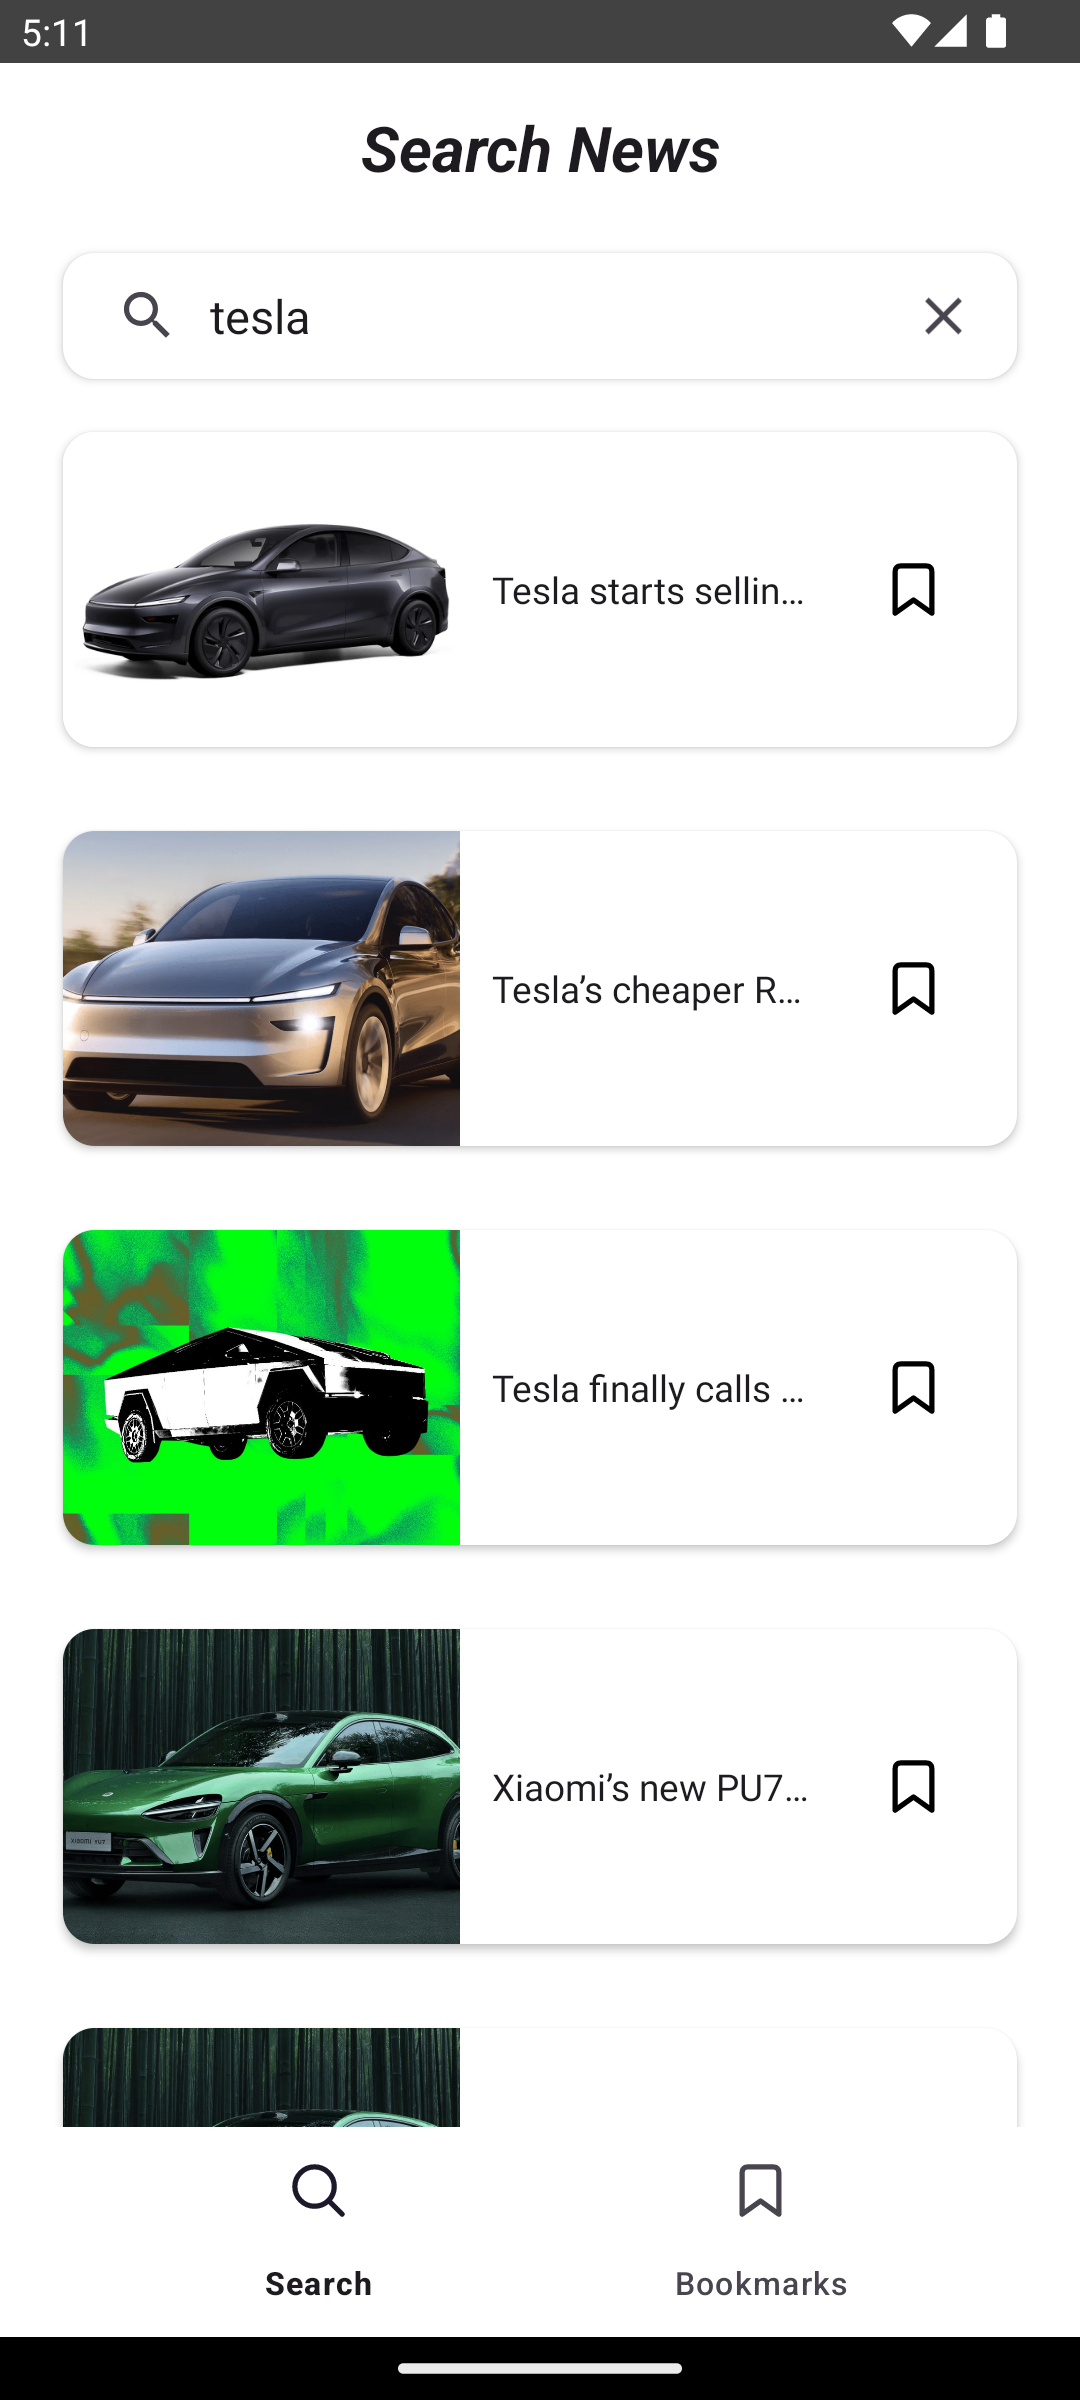
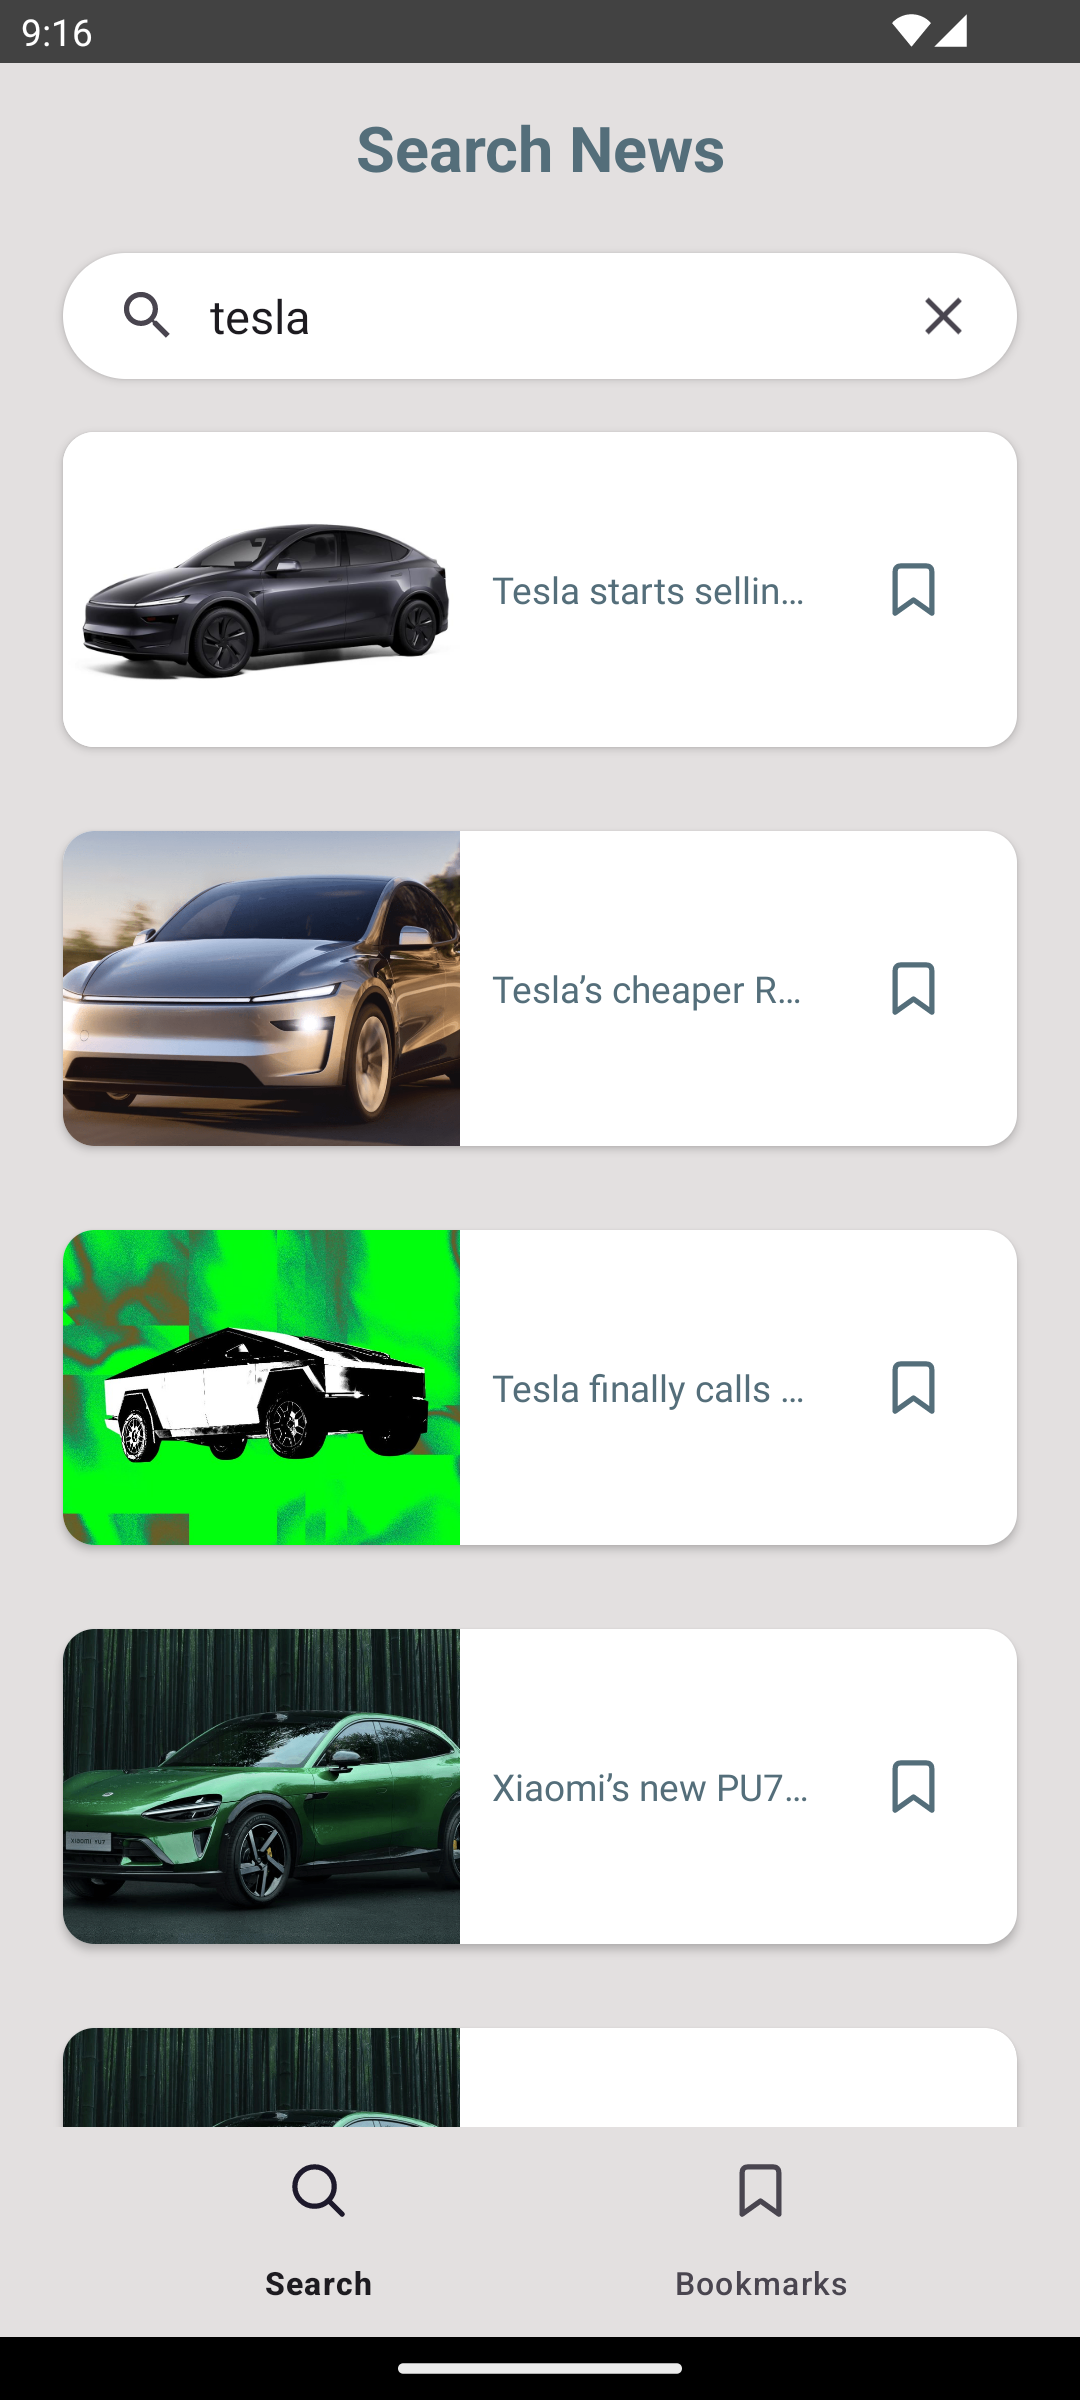
Update UI components in Article and Search fragments; add back button functionality and improve layout styling

diff --git a/app/src/main/java/com/example/news_app/ui/fragment/article/ArticleFragment.kt b/app/src/main/java/com/example/news_app/ui/fragment/article/ArticleFragment.kt
@@ -1,16 +1,22 @@
 package com.example.news_app.ui.fragment.article
 
 import android.content.Intent
+import android.os.Build
 import android.os.Bundle
 import android.view.LayoutInflater
 import android.view.View
 import android.view.ViewGroup
+import androidx.annotation.RequiresApi
 import androidx.core.net.toUri
 import androidx.fragment.app.Fragment
 import androidx.navigation.fragment.navArgs
 import com.bumptech.glide.Glide
+import com.example.news_app.R
 import com.example.news_app.data.model.NewsItem
 import com.example.news_app.databinding.FragmentArticleBinding
+import com.google.android.material.bottomnavigation.BottomNavigationView
+import java.time.ZonedDateTime
+import java.time.format.DateTimeFormatter
 
 
 class ArticleFragment : Fragment() {
@@ -18,28 +24,33 @@ class ArticleFragment : Fragment() {
     private lateinit var binding: FragmentArticleBinding
     private val args: ArticleFragmentArgs by navArgs()
 
+    @RequiresApi(Build.VERSION_CODES.O)
     override fun onCreateView(
-        inflater: LayoutInflater, container: ViewGroup?,
-        savedInstanceState: Bundle?
+        inflater: LayoutInflater, container: ViewGroup?, savedInstanceState: Bundle?
     ): View {
         binding = FragmentArticleBinding.inflate(inflater, container, false)
 
         val newsItem: NewsItem = args.newsItem
         bindData(newsItem)
-
+        hideNavbar()
+        onBack()
         return binding.root
     }
 
+    private fun hideNavbar() {
+        val bottomNav = requireActivity().findViewById<BottomNavigationView>(R.id.bottom_nav)
+        bottomNav.visibility = View.GONE
+    }
+
+    @RequiresApi(Build.VERSION_CODES.O)
     private fun bindData(newsItem: NewsItem) {
         binding.titleTextView.text = newsItem.title
-        binding.authorTextView.text = "By ${newsItem.author}"
-        binding.publishedAtTextView.text = newsItem.publishedAt
+        binding.authorTextView.text = "By ${newsItem.author} • "
+        binding.publishedAtTextView.text = formatDate(newsItem.publishedAt)
         binding.descriptionTextView.text = newsItem.description
         binding.contentTextView.text = newsItem.content
 
-        Glide.with(this)
-            .load(newsItem.urlToImage)
-            .into(binding.imageView)
+        Glide.with(this).load(newsItem.urlToImage).into(binding.imageView)
 
         binding.urlTextView.text = newsItem.url
 
@@ -47,6 +58,19 @@ class ArticleFragment : Fragment() {
             val intent = Intent(Intent.ACTION_VIEW, newsItem.url.toUri())
             startActivity(intent)
         }
+    }
+
+    private fun onBack() {
+        binding.backButton.setOnClickListener {
+            requireActivity().onBackPressedDispatcher.onBackPressed()
+        }
+    }
+
+    @RequiresApi(Build.VERSION_CODES.O)
+    fun formatDate(dateString: String): String {
+        val parsedDate = ZonedDateTime.parse(dateString)
+        val formatter = DateTimeFormatter.ofPattern("MMMM dd, yyyy")
+        return parsedDate.format(formatter)
     }
 
 }

diff --git a/app/src/main/java/com/example/news_app/ui/fragment/search/SearchFragment.kt b/app/src/main/java/com/example/news_app/ui/fragment/search/SearchFragment.kt
@@ -11,6 +11,7 @@ import androidx.lifecycle.Lifecycle
 import androidx.lifecycle.lifecycleScope
 import androidx.lifecycle.repeatOnLifecycle
 import androidx.navigation.fragment.findNavController
+import com.example.news_app.R
 import com.example.news_app.data.model.NewsItem
 import com.example.news_app.databinding.FragmentSearchBinding
 import com.example.news_app.ui.MainActivity
@@ -19,14 +20,15 @@ import com.example.news_app.ui.viewmodel.BookmarkViewModel
 import com.example.news_app.ui.viewmodel.SearchSideEffect
 import com.example.news_app.ui.viewmodel.SearchState
 import com.example.news_app.ui.viewmodel.SearchViewModel
+import com.google.android.material.bottomnavigation.BottomNavigationView
 import kotlinx.coroutines.launch
 
 class SearchFragment : Fragment() {
 
-    lateinit var binding: FragmentSearchBinding
-    lateinit var rVadapter: NewsRVadapter
+    private lateinit var binding: FragmentSearchBinding
+    private lateinit var rVadapter: NewsRVadapter
     lateinit var searchViewModel: SearchViewModel
-    lateinit var bookmarkViewModel: BookmarkViewModel
+    private lateinit var bookmarkViewModel: BookmarkViewModel
 
     override fun onCreateView(
         inflater: LayoutInflater, container: ViewGroup?, savedInstanceState: Bundle?
@@ -37,12 +39,17 @@ class SearchFragment : Fragment() {
         rVadapter = NewsRVadapter(
             ::navigateToDetails, bookmarkAdd = ::bookmarkAdd, bookmarkRemove = ::bookmarkRemove
         )
+        showNavbar()
         setUpRecyclerView()
         search()
         collectResults()
         return binding.root
     }
 
+    private fun showNavbar() {
+        val bottomNav = requireActivity().findViewById<BottomNavigationView>(R.id.bottom_nav)
+        bottomNav.visibility = View.VISIBLE
+    }
 
     private fun bookmarkAdd(newsItem: NewsItem) {
         bookmarkViewModel.addBookmark(newsItem)

diff --git a/app/src/main/java/com/example/news_app/ui/fragment/bookmark/BookmarkFragment.kt b/app/src/main/java/com/example/news_app/ui/fragment/bookmark/BookmarkFragment.kt
@@ -8,11 +8,13 @@ import android.view.ViewGroup
 import androidx.fragment.app.Fragment
 import androidx.lifecycle.lifecycleScope
 import androidx.navigation.fragment.findNavController
+import com.example.news_app.R
 import com.example.news_app.data.model.NewsItem
 import com.example.news_app.databinding.FragmentBookmarkBinding
 import com.example.news_app.ui.MainActivity
 import com.example.news_app.ui.adapter.NewsRVadapter
 import com.example.news_app.ui.viewmodel.BookmarkViewModel
+import com.google.android.material.bottomnavigation.BottomNavigationView
 import kotlinx.coroutines.launch
 
 class BookmarkFragment : Fragment() {
@@ -32,7 +34,6 @@ class BookmarkFragment : Fragment() {
 
         setUpRecyclerView()
         collectBookmarks()
-
         return binding.root
     }
 

diff --git a/README.md b/README.md
@@ -3,17 +3,21 @@
 A News Application built with **Kotlin** and **XML layouts**.  
 It fetches real-time news using the **News API**.
 
-| Home Screen | Search | Article Detail | Bookmarks |
-|-------------|--------|----------------|-----------|
+## 📸 Preview
+
+| Home Screen       | Search              | Article Detail       | Bookmarks              |
+|-------------------|---------------------|----------------------|------------------------|
 | ![Home](img1.png) | ![Search](img2.png) | ![Details](img3.png) | ![Bookmarks](img4.png) |
 
 ## ✨ Features
+
 1. **Search News** – Search for any topic with a SearchView.
 2. **Article Details Screen** - Read News with details (author, publication time, etc.)
 3. **Bookmarks Screen** – Save and manage your favorite articles.
 4. **Open in Browser** – Open articles directly via an external browser.
 
 ## 🛠 Tech Stack
+
 - Kotlin
 - XML (UI Layouts)
 - Retrofit2 (Networking)
@@ -23,8 +27,10 @@ It fetches real-time news using the **News API**.
 - Glide (Image loading)
 
 ## 📡 API
+
 - [NewsAPI.org](https://newsapi.org/)
 
 ## 🚀 How to Run
+
 1. Clone the project.
 2. Build and run the app on Android Studio.
